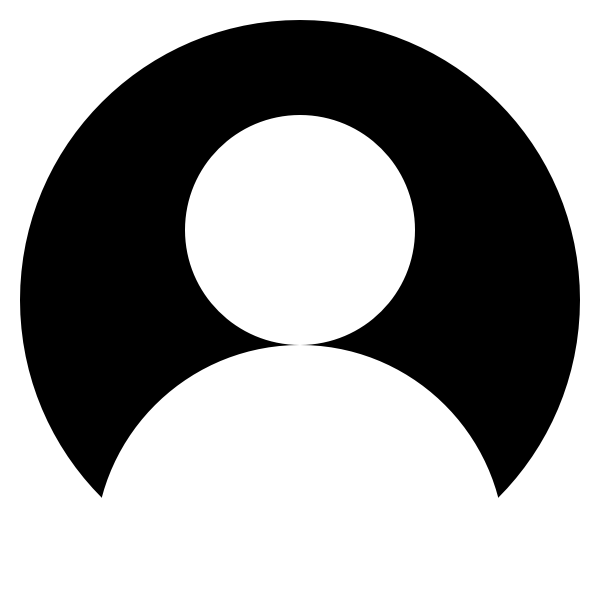
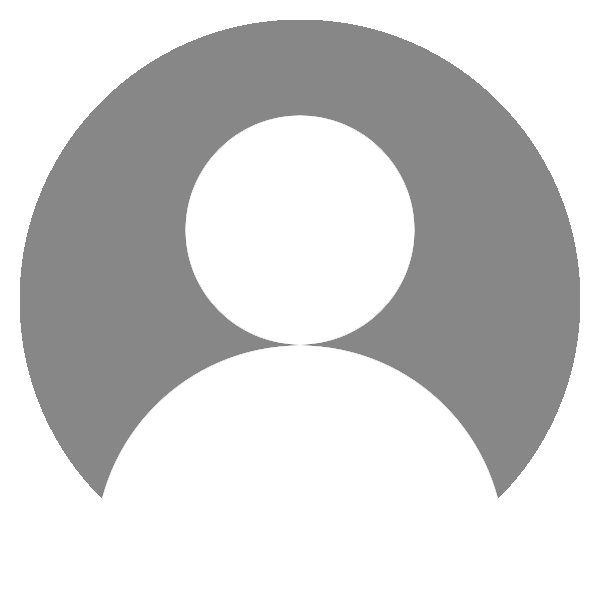
Made a clickable profile pic and location but no apparent function yet

diff --git a/assets/css/templatemo-plot-listing.css b/assets/css/templatemo-plot-listing.css
@@ -1316,6 +1316,35 @@ Page Heading
   text-align: left;
 }
 
+.page-heading .map-pin{
+  margin-top: 5px;
+  height: 14px;
+  width: 1%;
+
+}
+
+.page-heading .map-button{
+  display: flex;
+  flex-direction: row;
+  pointer-events: none;
+}
+
+.page-heading .map-button *{
+  pointer-events: auto;
+}
+
+
+
+.page-heading .map-location{
+  margin-left: 0.3%;
+  font-weight: 500;
+  color: white;
+}
+
+.page-heading .map-location:hover{
+  color: #074783;
+}
+
 .page-heading .top-text h6 {
   color: #fff;
   font-size: 15px;
@@ -1335,11 +1364,38 @@ Page Heading
 .page-heading .profile-pic{
  display: flex;
  flex-direction: row;
+ position: relative;
 }
 
-.page-heading .header-profile{
-  width: 300px;
-  height: 300px;
+.image-button {
+  display: inline-block;
+  border: none;
+  background: none;
+  text-decoration: none;
+  cursor: pointer;
+  width: 25%;
+  min-width: 300px;
+  height: auto;
+  pointer-events: none;
+  border-radius: 150%;
+}
+
+.image-button * {
+  pointer-events: auto;
+}
+
+.image-button .hover-image {
+  border-radius: 100%;
+  display: none; /* Hide the hover image by default */
+}
+
+.image-button:hover .default-image {
+  border-radius: 100%;
+  display: none; /* Hide the default image on hover */
+}
+
+.image-button:hover .hover-image {
+  display: inline-block; /* Display the hover image on hover */
 }
 
 .page-heading .text-icon{

diff --git a/web_pages/category.html b/web_pages/category.html
@@ -74,7 +74,13 @@
     <div class="container">
           <div class="top-text header-text">
             <div class="profile-pic">
-              <img class="header-profile" src="../blank_profile.png">
+
+              <a href="#" class="image-button">
+                <img src="../blank_profile.png" class="default-image">
+                <img src="../blank_profile_hover.png" class="hover-image">
+              </a>
+
+
               <div class="text-icon">
                 <span> Total Reviews:</span>
                 <span class="list-item">2</span>
@@ -82,6 +88,10 @@
             </div>
             <h2>JUAN DELA 123</h2>
             <h6>Member since 2020</h6>
+            <a href="#" class="map-button">
+              <img src="../map-pin.png" class="map-pin">
+              <div class="map-location">The Grand Towers</div>
+            </a>
           </div>
     </div>
   </div>
